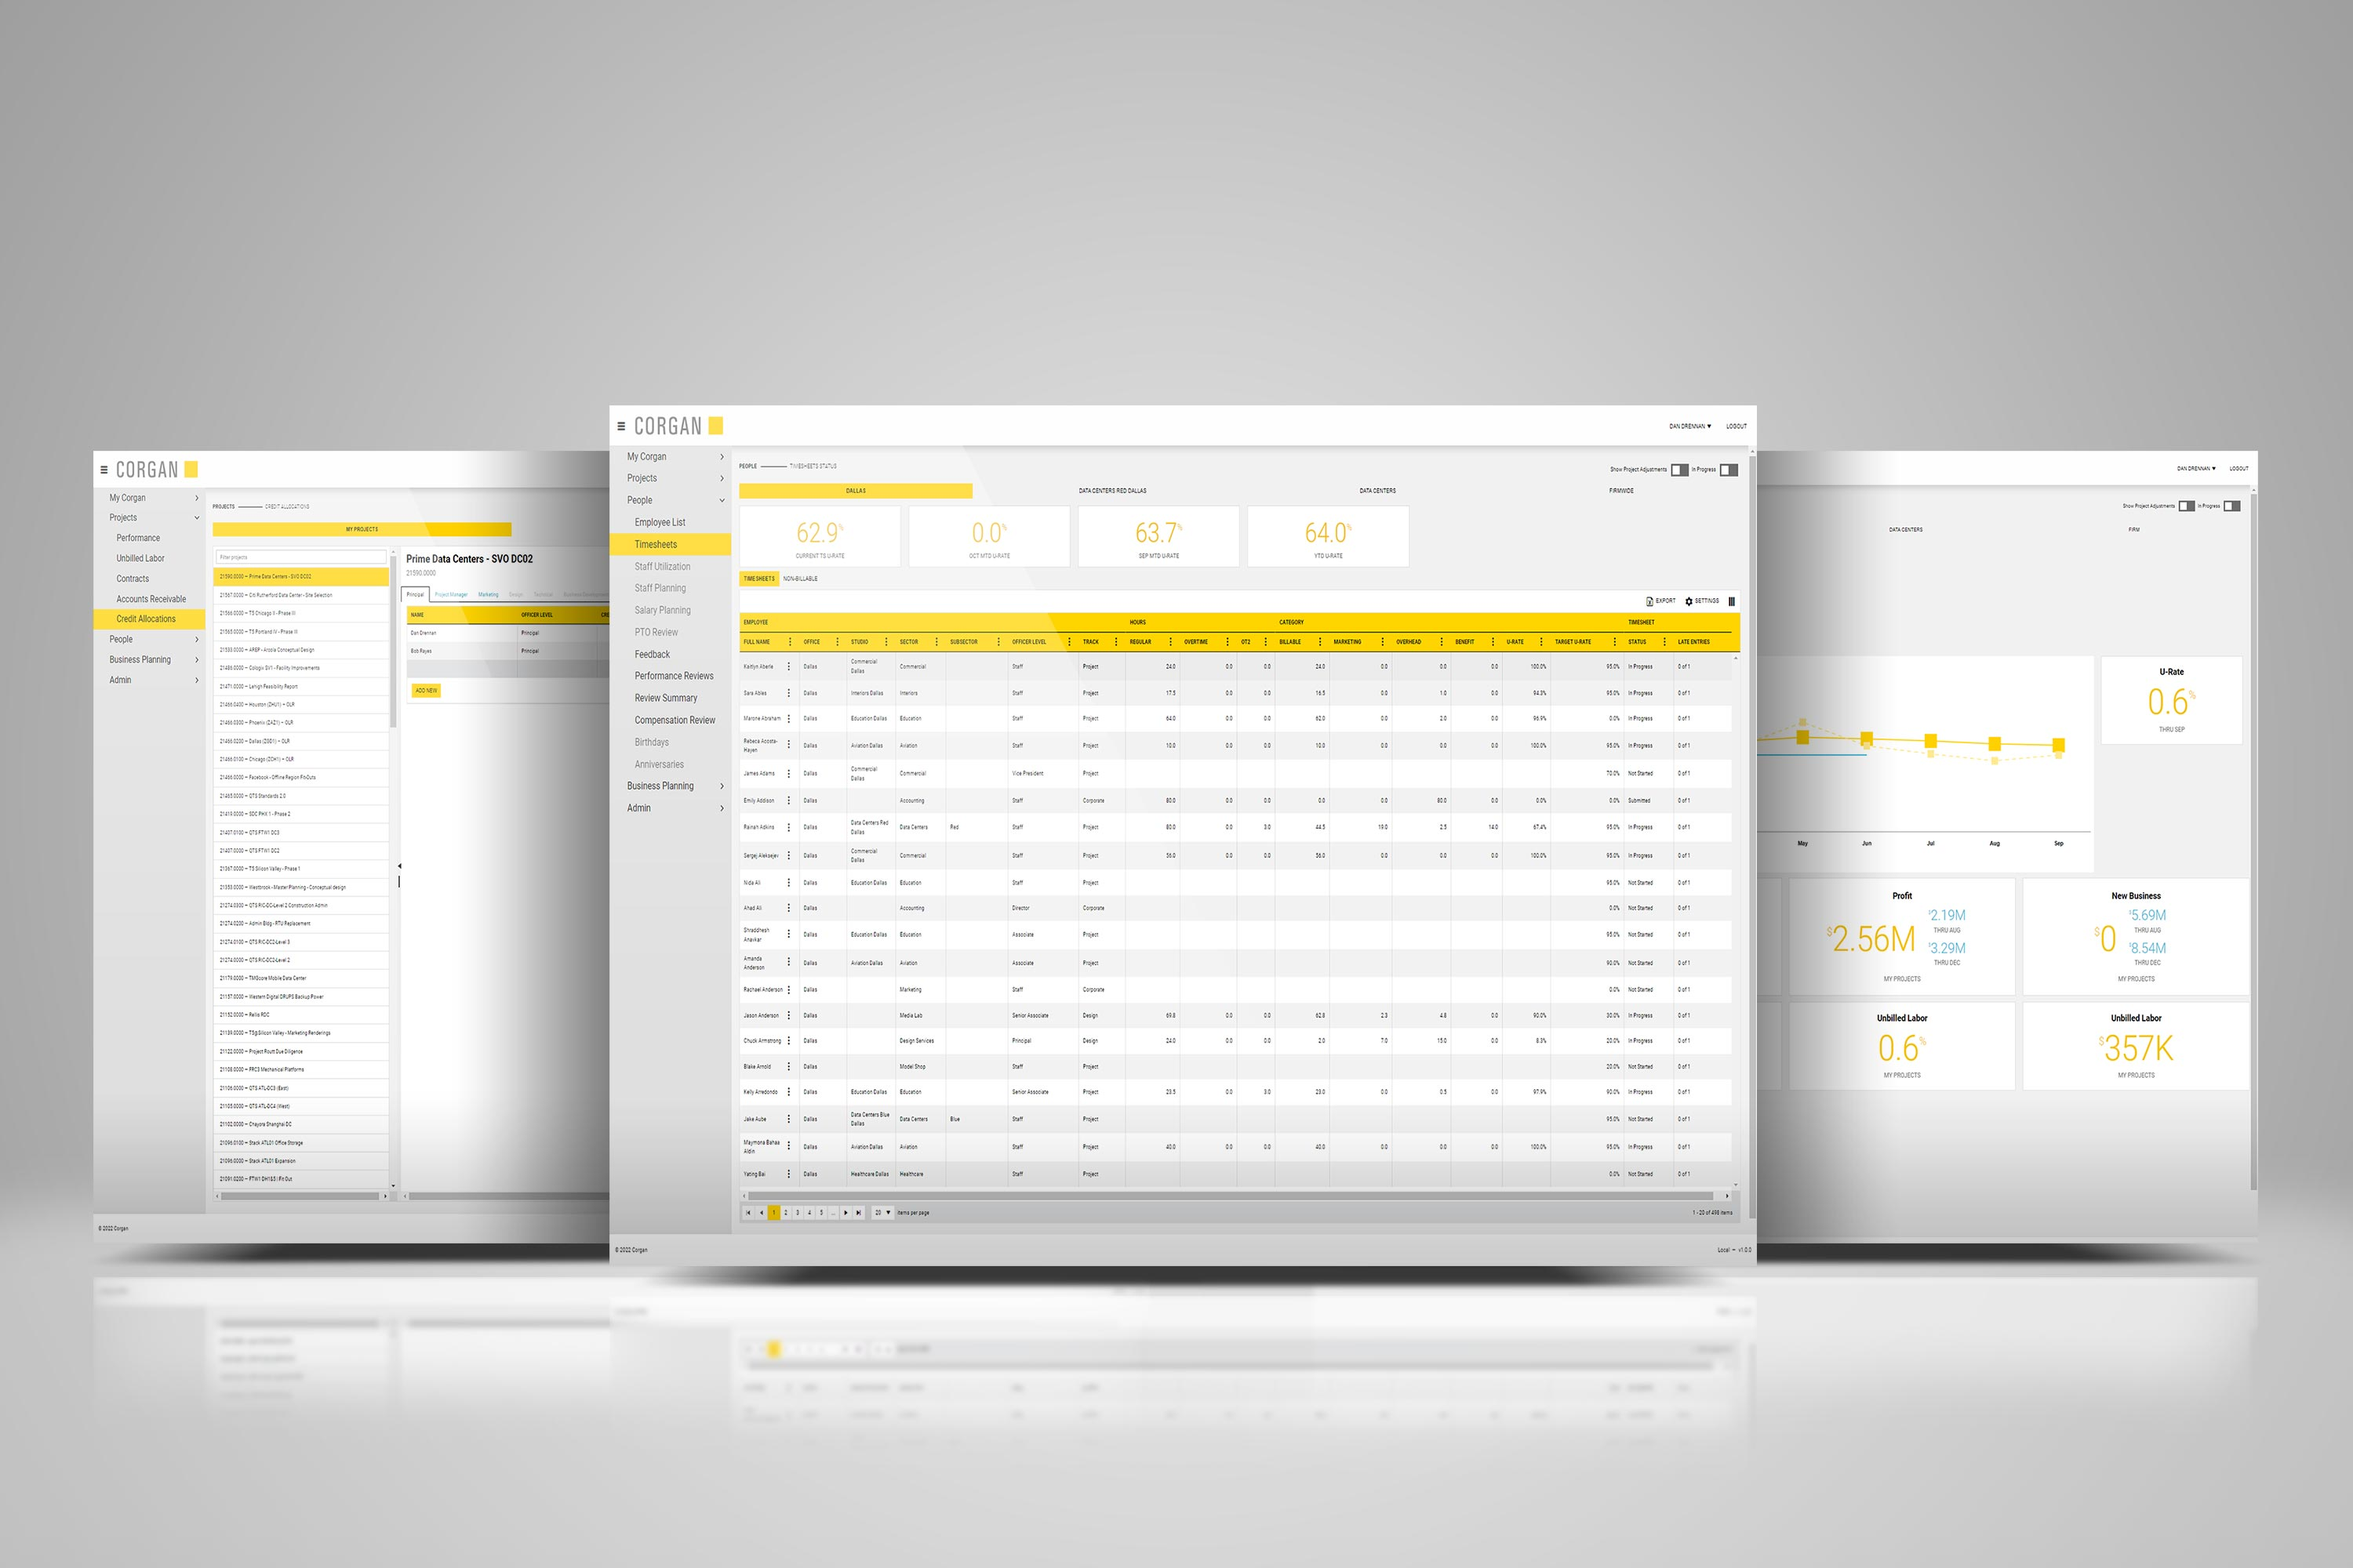
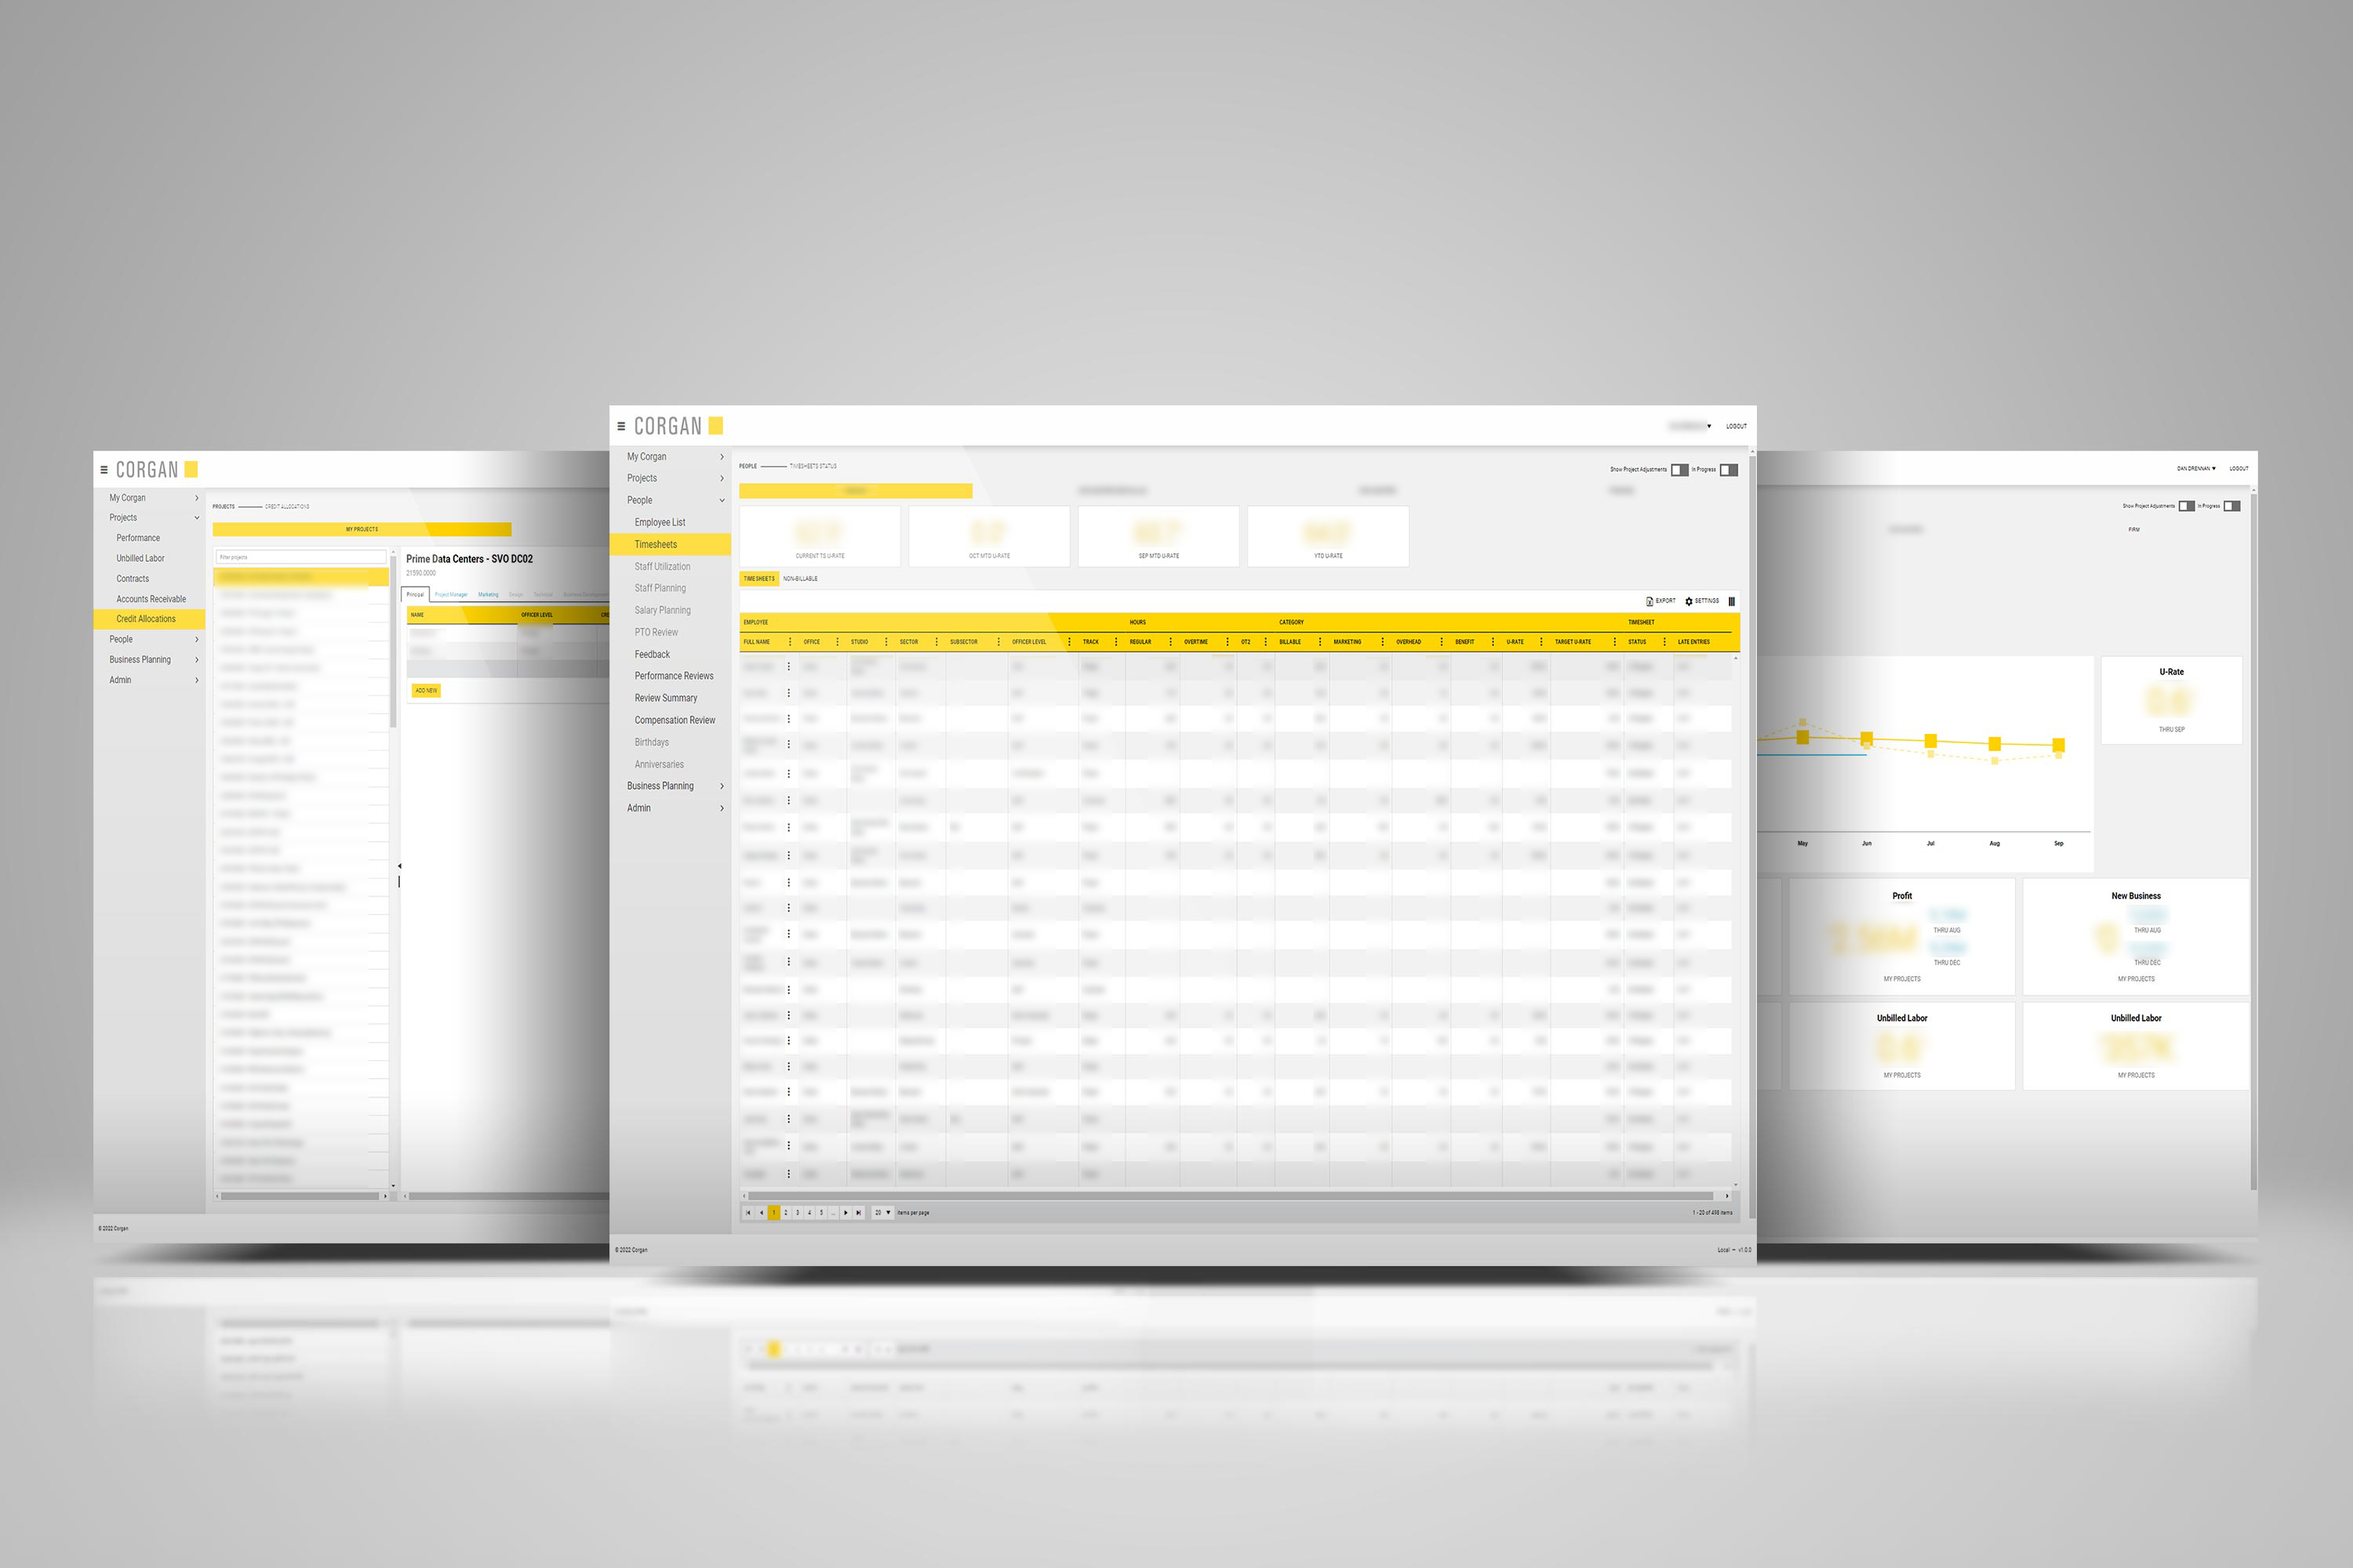
Additional blurring added to portfolio images.

diff --git a/index.html b/index.html
@@ -161,7 +161,7 @@
                             <div class="grid" id="portfolio-grid">
                                 <div class="grid-sizer"></div>
                                 <div id="p-item-1" class="grid-item element-item p-one-third saatchi">
-                                    <a class="item-link ajax-portfolio" href="../My%20Corgan%20Portfolio%20Item/portfolio-1.html" data-id="1">
+                                    <a class="item-link ajax-portfolio" href="portfolio-1.html" data-id="1">
                                         <img src="images/mycorgan_thumb.jpg" alt=""/>
                                         <div class="portfolio-text-holder">
                                             <div class="portfolio-text-wrapper">
